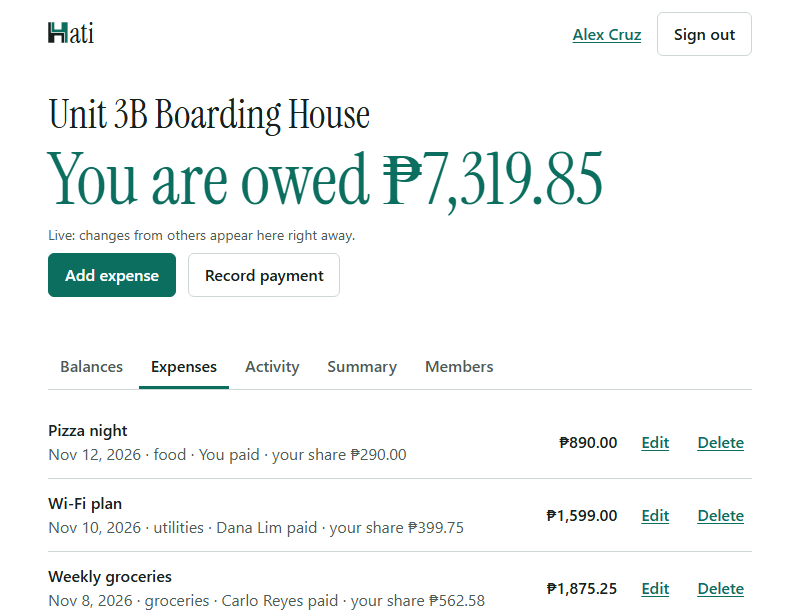
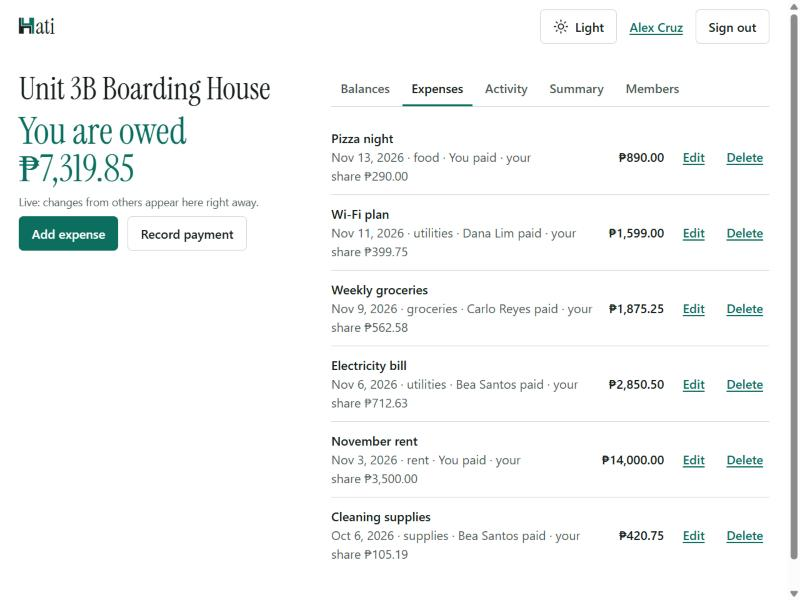
docs: retake the screenshots for the wider layout
- Show the two-column group page with the Show QR buttons, in light and dark
- Show the groups list beside the start and join forms, with Scan QR code
- Show the expenses list at the new width
- Show the phone layout with full-width hero buttons, in light and dark

diff --git a/README.md b/README.md
@@ -27,8 +27,8 @@ Hati (Filipino for "to split") is for housemates, project groups and friends who
 
 <table>
   <tr>
-    <td width="50%" align="center"><b>Group balances</b><br><a href="docs/images/balances.png"><img src="docs/images/balances.png" width="100%" alt="Group page showing You are owed 7,319.85 pesos, the Add expense button and each member's balance"></a></td>
-    <td width="50%" align="center"><b>Your groups</b><br><a href="docs/images/groups.png"><img src="docs/images/groups.png" width="100%" alt="Groups list with one group and forms to start or join a group"></a></td>
+    <td width="50%" align="center"><b>Group balances</b><br><a href="docs/images/balances.png"><img src="docs/images/balances.png" width="100%" alt="Group page on desktop: the balance and Add expense button on the left, each member's balance and the settle-up payments with Show QR buttons on the right"></a></td>
+    <td width="50%" align="center"><b>Your groups</b><br><a href="docs/images/groups.png"><img src="docs/images/groups.png" width="100%" alt="Groups list beside the forms to start a group or join one by code or by scanning a QR code"></a></td>
   </tr>
   <tr>
     <td width="50%" align="center"><b>Sign in</b><br><a href="docs/images/sign-in.png"><img src="docs/images/sign-in.png" width="100%" alt="Sign-in page with Google and GitHub buttons with their logos, a theme switch, and an email and password form"></a></td>
